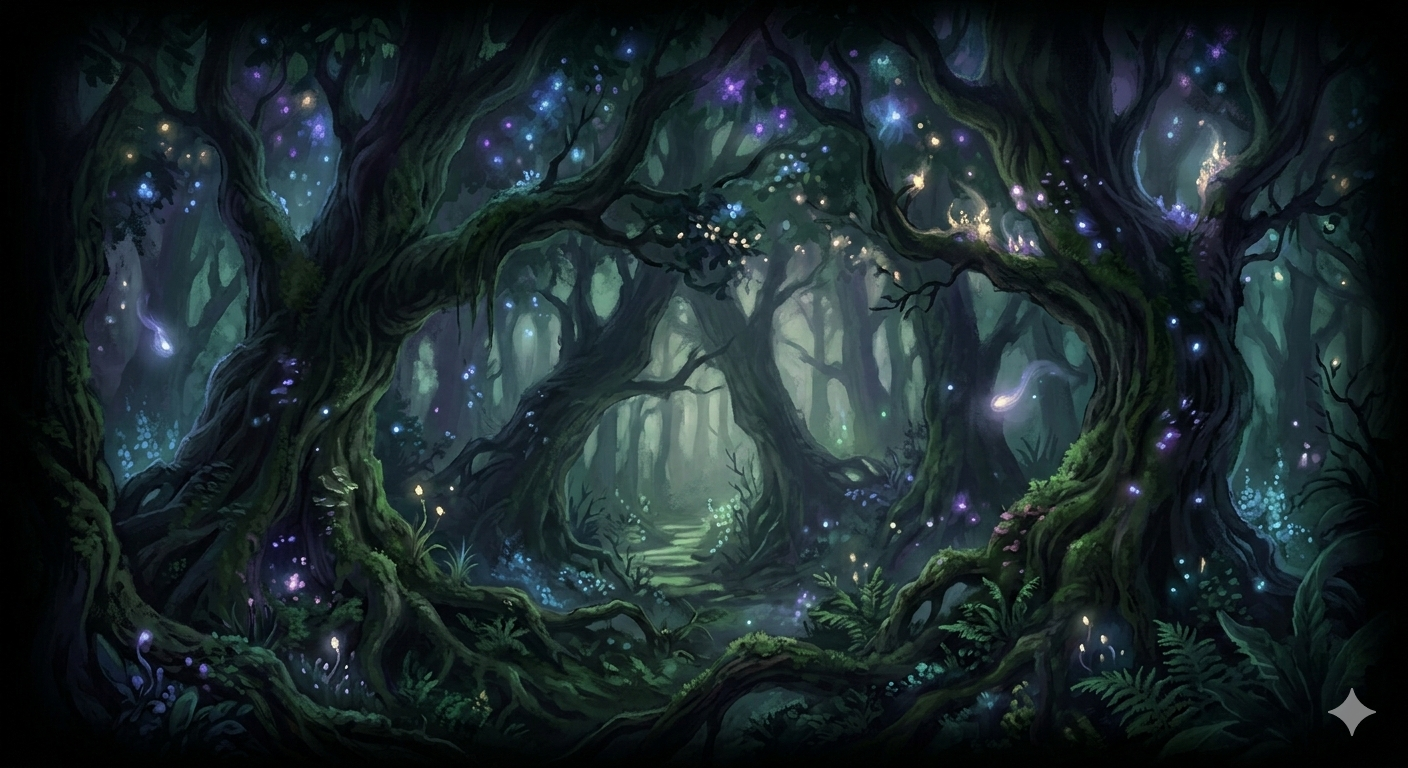
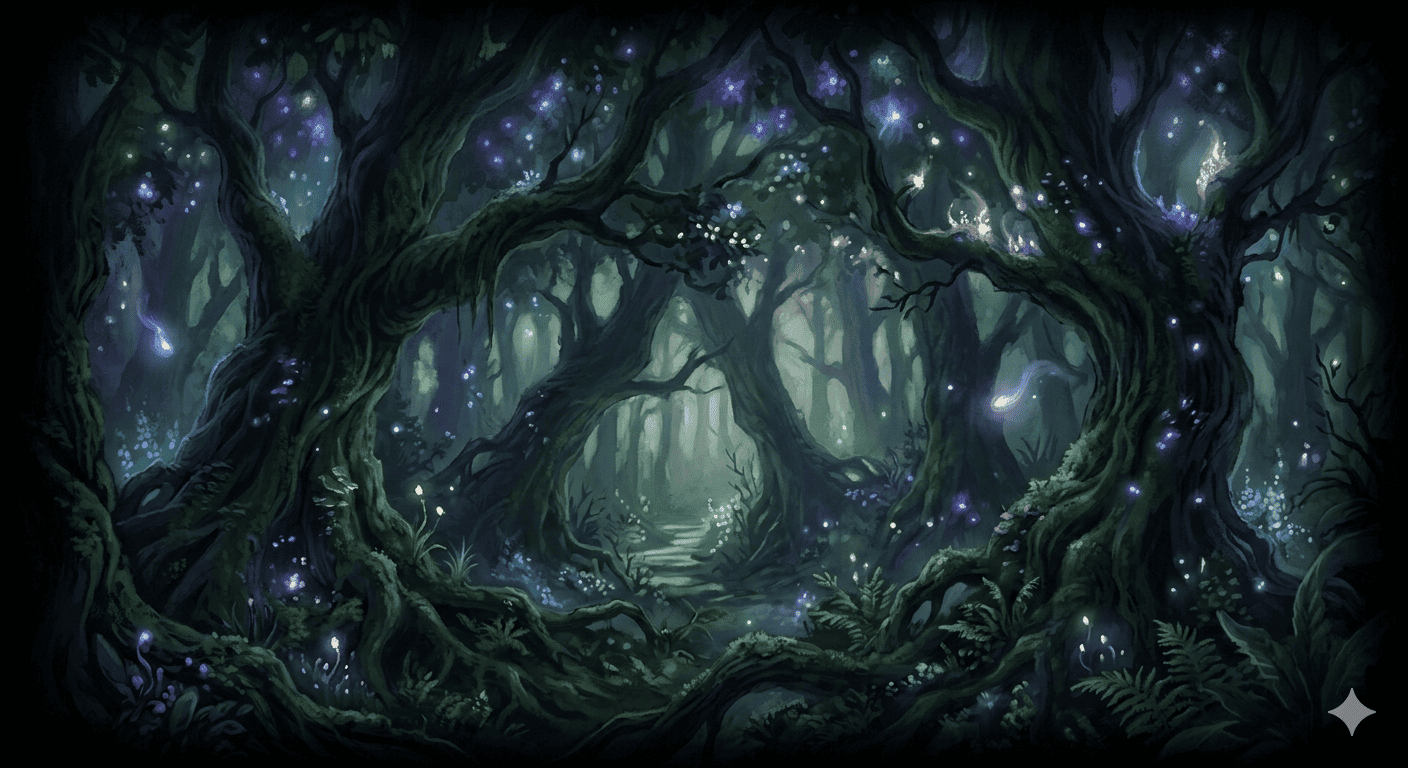
level 2

diff --git a/personaggi.html b/personaggi.html
@@ -3,7 +3,7 @@
 <head>
     <meta charset="UTF-8">
     <meta name="viewport" content="width=device-width, initial-scale=1.0, maximum-scale=1.0, user-scalable=no">
-    <title>Selezione Eroe AR</title>
+    <title>XRi - Selezione Eroe</title>
     <script src="https://xri.onl/XRi.js"></script>
     <style>
         * { box-sizing: border-box; }
@@ -13,141 +13,145 @@
             font-family: 'Segoe UI', sans-serif; color: white;
         }
 
-        /* SFONDO FANTASY CON IMMAGINE */
         #fantasy-bg {
             position: fixed; top: 0; left: 0; width: 100%; height: 100%;
             background-image: url('assets/img/background.png');
             background-size: cover; background-position: center;
-            filter: brightness(0.4) blur(8px); 
-            z-index: 1;
+            filter: brightness(0.3); z-index: 1;
         }
 
-        #ui-header { 
+        #ui-layer {
             position: relative; z-index: 10;
-            text-align: center; padding: 40px; 
-            background: linear-gradient(to bottom, rgba(0,0,0,0.8), transparent); 
+            display: flex; flex-direction: column; align-items: center; justify-content: center;
+            width: 100%; height: 100%;
+            background: radial-gradient(circle, transparent 0%, rgba(0,0,0,0.4) 100%);
         }
 
-        h1 { font-size: 3rem; text-shadow: 0 0 20px #00ffcc; margin: 0; }
-
-        #confirm-box {
-            position: fixed; top: 50%; left: 50%; transform: translate(-50%, -50%);
-            background: rgba(10, 10, 10, 0.95); border: 3px solid #00ffcc;
-            padding: 50px; border-radius: 20px; text-align: center; z-index: 100;
-            box-shadow: 0 0 50px rgba(0, 255, 204, 0.4);
+        h1 { font-size: 3rem; text-shadow: 0 0 20px #00d1ff; margin: 0; }
+        .map-name { font-size: 2.5rem; color: #00d1ff; margin-top: 20px; font-weight: bold; min-height: 4rem; }
+        
+        .btn-confirm {
+            display: none; /* Appare solo dopo la scelta */
+            margin-top: 40px; padding: 20px 80px; font-size: 1.8rem;
+            background: #00ff44; color: black; border: none; border-radius: 50px;
+            font-weight: bold; cursor: pointer; transition: 0.3s;
+            box-shadow: 0 0 30px rgba(0, 255, 68, 0.5);
         }
 
-        .btn-group { display: flex; justify-content: center; gap: 20px; margin-top: 30px; }
-        .btn { padding: 15px 40px; font-size: 1.2rem; border-radius: 10px; cursor: pointer; border: none; font-weight: bold; transition: 0.2s; }
-        .btn-yes { background: #00ffcc; color: black; }
-        .btn-no { background: #333; color: white; }
-        .btn:active { transform: scale(0.95); }
-        .hidden { display: none !important; }
+        #debug-overlay {
+            display:none; position:fixed; top:0; left:0; width:100vw; height:100vh; 
+            background:rgba(0,0,0,0.95); z-index:9999; padding:40px; 
+            color: #00ff00; font-family: monospace; overflow-y: auto; 
+            border: 10px solid red; font-size: 2rem;
+        }
     </style>
 </head>
 <body>
 
     <div id="fantasy-bg"></div>
 
-    <div id="ui-header">
-        <h1>TOCCA IL TUO EROE</h1>
-        <button class="btn btn-yes" style="position: fixed; top: 2%; right: 2%; padding: 10px 25px; font-size: 1rem;" onclick="window.location.reload()">reload</button>
-    </div>
-
-    <div id="confirm-box" class="hidden">
-        <h2 id="char-name-display" style="color:#00ffcc; text-transform: uppercase;">---</h2>
-        <p>Vuoi iniziare l'avventura con questo eroe?</p>
-        <div class="btn-group">
-            <button class="btn btn-no" onclick="cancelChoice()">ANNULLA</button>
-            <button class="btn btn-yes" onclick="confirmChoice()">CONFERMA</button>
+    <div id="ui-layer">
+        <h1 id="title-text">TOCCA L'EROE PER SCEGLIERE</h1>
+        <div class="map-name" id="choice-text"></div>
+        <button class="btn-confirm" id="btn-confirm" onclick="confirmChoice()">CONFERMA SCELTA</button>
+        
+        <div id="debug-overlay">
+            <button onclick="document.getElementById('debug-overlay').style.display='none'">CHIUDI</button>
+            <div id="debug-content"></div>
         </div>
     </div>
 
     <script>
-        // URL Base per i personaggi dal tuo GitHub
-        const HERO_BASE = "https://raw.githubusercontent.com/simonevetere/XRi-game-example/main/assets/3d/playable/";
-        
-        let heroes = { knight: null, troll: null, archer: null };
-        let selectedHero = null;
+    const RAW_HERO_BASE = "https://raw.githubusercontent.com/simonevetere/XRi-game-example/main/assets/3d/playable/";
+    const heroes = [
+        { id: 'archer', name: 'ARCHER', glb: RAW_HERO_BASE + 'archer.glb', x: -0.2 },
+        { id: 'knight', name: 'KNIGHT', glb: RAW_HERO_BASE + 'knight.glb', x: 0.0 },
+        { id: 'troll', name: 'TROLL', glb: RAW_HERO_BASE + 'troll.glb', x: 0.2 }
+    ];
 
-        const urlParams = new URLSearchParams(window.location.search);
-        const mapFile = urlParams.get('map') || 'swamp_location.glb';
+    let selectedHeroId = null;
+    let heroInstances = {};
 
-        async function initScene() {
-            if(window.XRi) {
-                XRi.initMultiplayer();
-                XRi.clearAll();
-                // La mappa arriva come URL completo dalla pagina precedente o usa il default
-                XRi.spawn("map", mapFile, 0.8);
-
-                setTimeout(async () => {
-                    // SPAWN E SALVATAGGIO ISTANZE dai percorsi GitHub
-                    heroes.knight = XRi.spawn("knight", HERO_BASE + "knight.glb", 1.2);
-                    heroes.troll = XRi.spawn("troll", HERO_BASE + "troll.glb", 1.2);
-                    heroes.archer = XRi.spawn("archer", HERO_BASE + "archer.glb", 1.2);
-
-                    // POSIZIONAMENTO
-                    await heroes.knight.move({ x: -2.0, y: 0, z: 3.5 });
-                    await heroes.troll.move({ x: 0, y: 0, z: 4.0 });
-                    await heroes.archer.move({ x: 2.0, y: 0, z: 3.5 });
-
-                    // ANIMAZIONI (Passiamo stringa vuota per default)
-                    heroes.knight.startAnimation("");
-                    heroes.troll.startAnimation("");
-                    heroes.archer.startAnimation("");
-                }, 1000);
-            }
+    // 1. Funzione di Log (integrata con XRi.js come abbiamo discusso)
+    function log(msg, color = "#00ff00") {
+        console.log(msg);
+        const content = document.getElementById('debug-content');
+        if(content) {
+            const entry = document.createElement('div');
+            entry.style.color = color;
+            entry.innerHTML = `[${new Date().toLocaleTimeString()}] ${msg}`;
+            content.insertBefore(entry, content.firstChild);
         }
+    }
 
-        function handleUnityMessage(e) {
+    // 2. Spawn Simultaneo
+    async function spawnAllHeroes() {
+        log("Evocazione eroi...");
+        XRi.clearAll();
+
+        for (const hero of heroes) {
+            log(`Spawning ${hero.name}...`);
+            // Spawna a 10cm di distanza l'uno dall'altro (asse X)
+            const inst = await XRi.spawn(hero.id, hero.glb, 0.1, { x: hero.x, y: 1, z: 0.5 });
+            await inst.resetRotation(0);
+            await inst.setGrabbable(true);
+            await inst.startAnimation("");
+            heroInstances[hero.id] = inst;
+        }
+        log("Tutti gli eroi sono pronti.");
+    }
+
+    window.addEventListener('vuplexready', () => {
+        window.vuplex.addEventListener('message', (e) => {
             try {
-                const d = JSON.parse(e.data);
-                if (d.command === "UNITY_LOG" && d.type === "GRAB_START") {
-                    const id = d.id;
-                    if (heroes[id]) {
-                        selectedHero = heroes[id];
-                        selectedHero.startAnimation(""); // Trigger animazione default al tocco
-                        
-                        const names = { knight: "Guerriero", troll: "Troll", archer: "Arciere" };
-                        document.getElementById('char-name-display').innerText = names[id];
-                        document.getElementById('confirm-box').classList.remove('hidden');
-                    }
+                const data = JSON.parse(e.data);
+                // Quando l'utente tocca/afferra un oggetto, Unity manda il comando GRAB o SELECT
+                if (data.type === "GRAB_START" || data.type === "OBJECT_SELECTED") {
+                    handleSelection(data.id);
                 }
             } catch(err) {}
-        }
+        });
+    });
 
-        // Setup Vuplex
-        if (window.vuplex) {
-            window.vuplex.addEventListener('message', handleUnityMessage);
-        } else {
-            window.addEventListener('vuplexready', () => {
-                window.vuplex.addEventListener('message', handleUnityMessage);
-            });
-        }
+    async function handleSelection(heroId) {
+        if (selectedHeroId) return; // Scelta già effettuata
+        
+        selectedHeroId = heroId;
+        const heroData = heroes.find(h => h.id === heroId);
+        
+        document.getElementById('title-text').innerText = "HAI SCELTO:";
+        document.getElementById('choice-text').innerText = heroData.name;
+        document.getElementById('btn-confirm').style.display = 'block';
 
-        function cancelChoice() {
-            if (selectedHero) selectedHero.startAnimation("");
-            selectedHero = null;
-            document.getElementById('confirm-box').classList.add('hidden');
-        }
+        log(`Selezionato: ${heroData.name}`, "#ffff00");
 
-        async function confirmChoice() {
-            // Elimina gli altri eroi
-            for (let key in heroes) {
-                if (heroes[key] && heroes[key] !== selectedHero) {
-                    heroes[key].destroy();
-                }
+        // Elimina gli altri due
+        for (const hero of heroes) {
+            if (hero.id !== heroId) {
+                // Comando ipotetico per distruggere singolo oggetto o lo spostiamo lontano
+                XRi._send({ command: "DESTROY_OBJECT", id: hero.id });
             }
-            
-            selectedHero.startAnimation("");
-            document.getElementById('confirm-box').innerHTML = "<h2>AVVENTURA INIZIATA!</h2>";
-            
-            setTimeout(() => {
-                document.body.style.display = 'none';
-            }, 3000);
         }
 
-        window.onload = initScene;
-    </script>
+        // Porta quello scelto al centro e raddrizzalo
+        const chosen = heroInstances[heroId];
+        await chosen.setPosition({ x: 0, y: 1, z: 0.5 }, 0.5);
+    }
+
+    function confirmChoice() {
+        log("Scelta confermata! Caricamento mappa...");
+        // Qui puoi mandare al server multiplayer la scelta o cambiare pagina
+        window.location.href = "mappa.html?hero=" + selectedHeroId;
+    }
+
+    window.onload = () => {
+        const init = () => {
+            XRi.initMultiplayer();
+            spawnAllHeroes();
+        };
+        if (window.XRi && XRi.isReady) init();
+        else window.addEventListener('vuplexready', init);
+    };
+</script>
 </body>
 </html>
